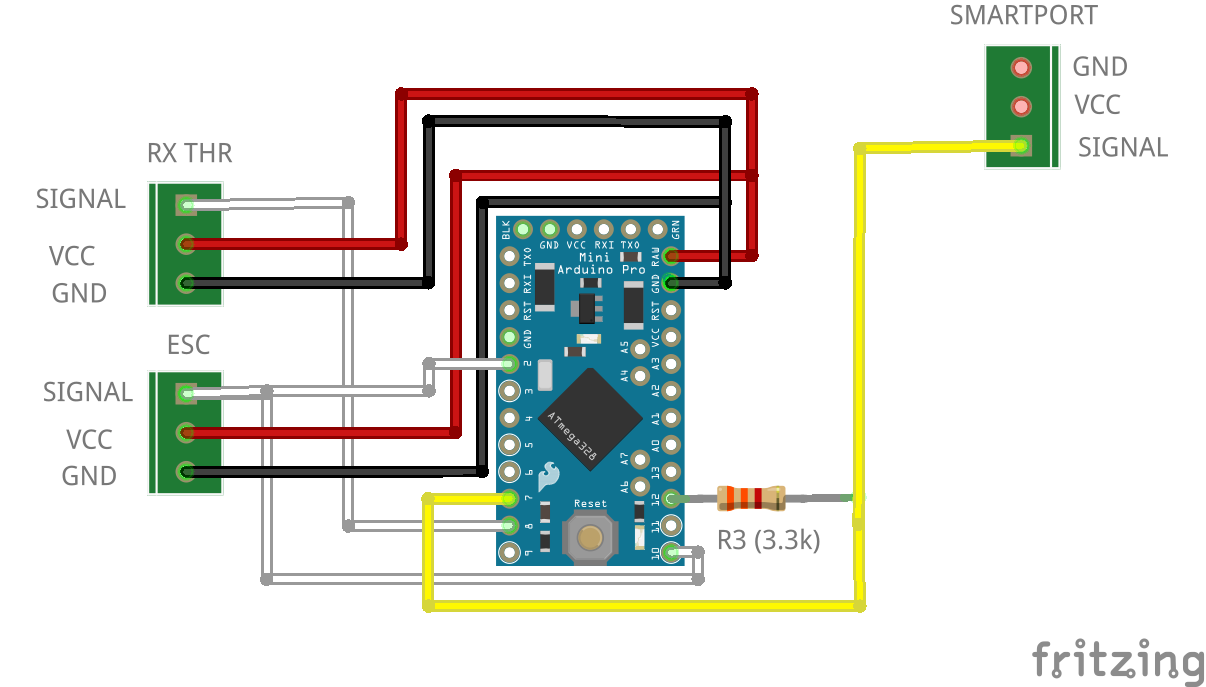
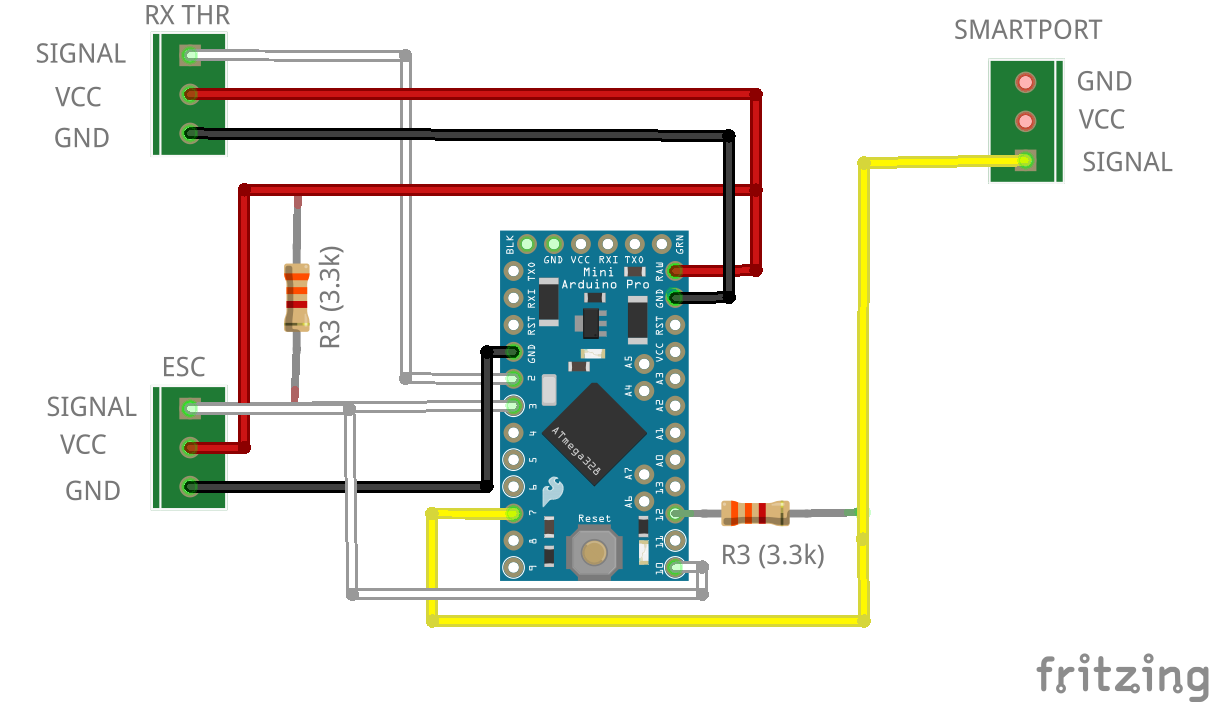
Add pull up resistor

diff --git a/msrc/msrc.h b/msrc/msrc.h
@@ -14,7 +14,7 @@
 
 // pins
 #define PIN_SMARTPORT_RX 7
-#define PIN_SMARTPORT_TX 12 //7
+#define PIN_SMARTPORT_TX 7 //12
 #define PIN_NTC1 A0
 #define PIN_NTC2 A1
 #define PIN_VOLTAGE1 A2
@@ -23,7 +23,7 @@
 
 // opentx
 #define DATA_ID 0x5100            // DataId (sensor type)
-#define CONFIG_LUA                // Uncomment if using lua script for configuration
+//#define CONFIG_LUA                // Uncomment if using lua script for configuration
 
 // esc protocol
 #define PROTOCOL_NONE 0
@@ -52,7 +52,7 @@
    Telemetry may not work properly in debug mode
    Connect arduino Rx to TTL Tx for flashing, then connect arduino Rx to esc
 */
-//#define DEBUG
+#define DEBUG
 //#define DEBUG_PLOTTER rpm/60
 
 // Config bitmask
@@ -141,7 +141,7 @@ struct DeviceI2C
 struct Config
 {
     uint8_t sensorId = 10;
-    uint8_t protocol = PROTOCOL_HW_V3; // protocol
+    uint8_t protocol = PROTOCOL_CASTLE; // protocol
     bool voltage1 = false;             // enable/disable voltage1 analog reading
     bool voltage2 = false;             // enable/disable voltage2 analog reading
     bool current = false;              // enable/disable current analog reading
